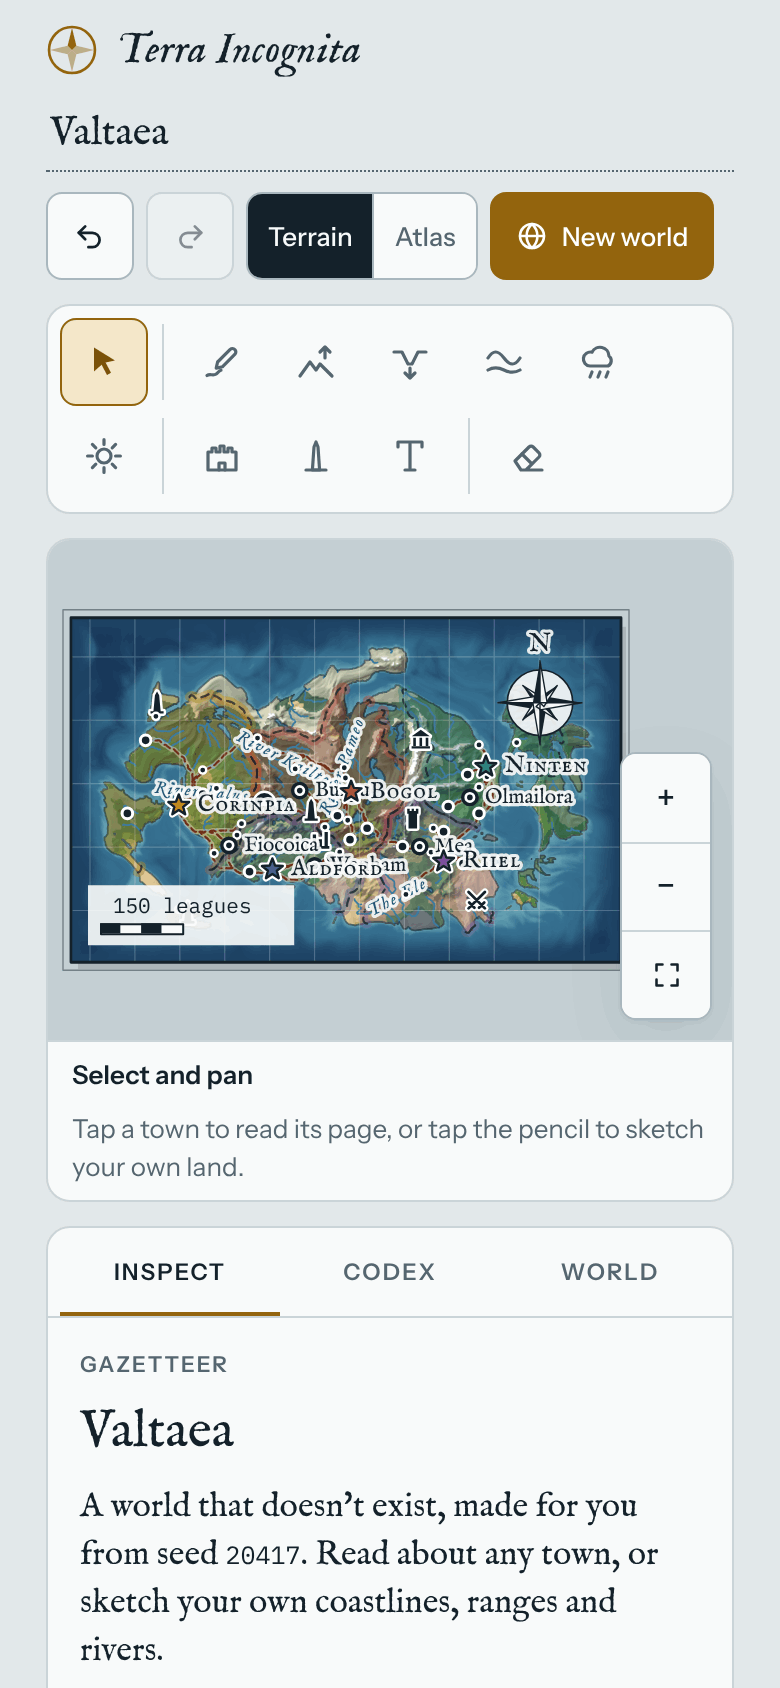
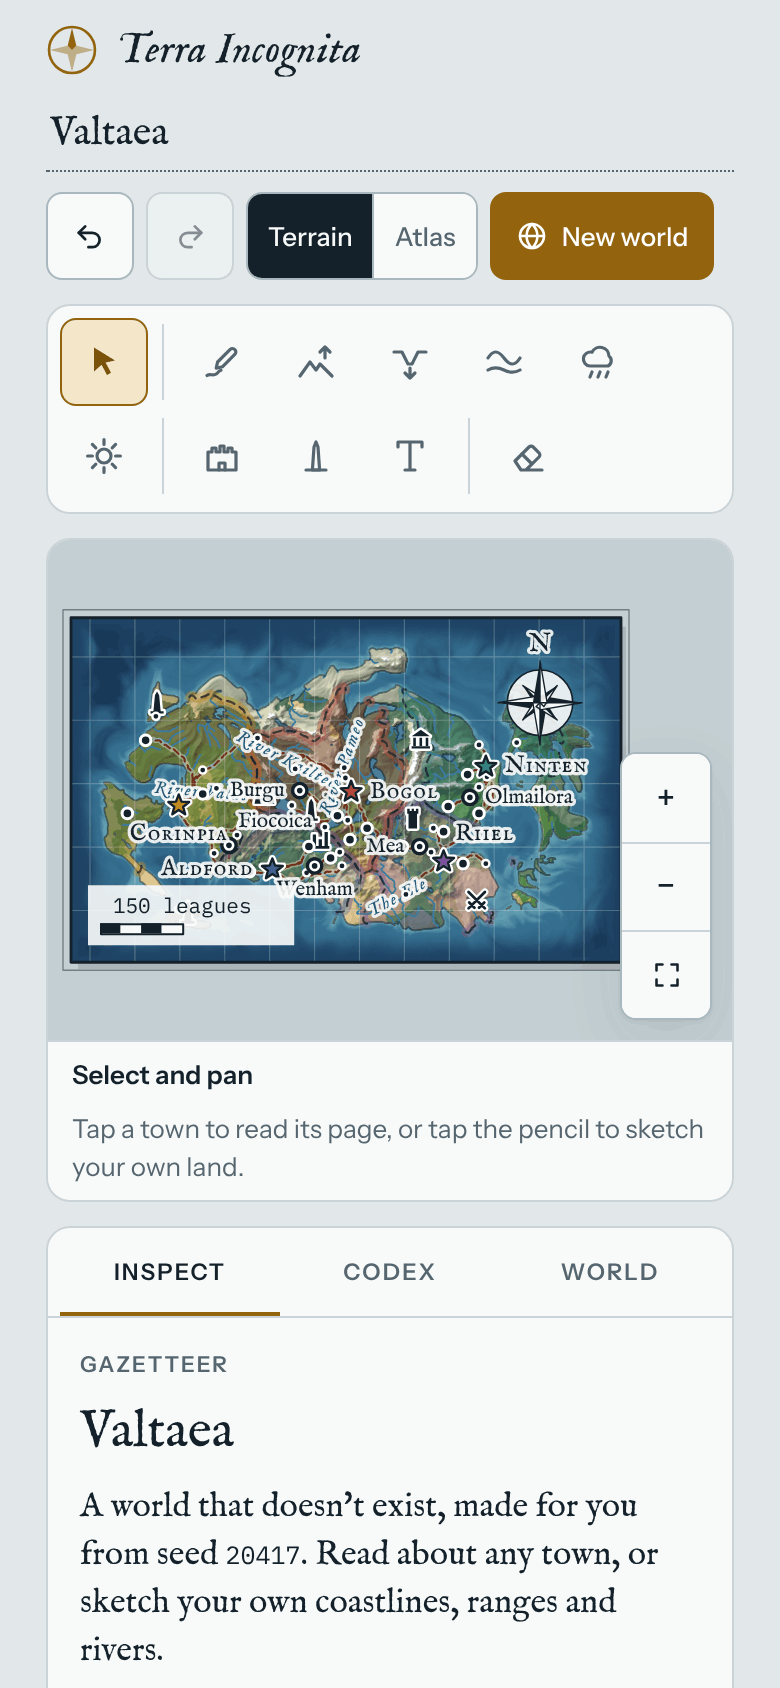
Give every place name a clear spot, and leave off the ones with none
Every name went to the right of its symbol with no check, so on a phone Bogol was cut at the map's edge, Lonlie and Mea
ran together, and on the saved image Sion printed into a capital's star. Names are now placed before any is drawn, in
order of rank, capitals first: right of the symbol, or left, above, below or at a corner, clear of the names and
symbols already there, the realms' names, sea and river names, the compass, the scale bar, the zoom buttons and the
map's edge. A town, village or landmark name with no clear spot is left off until you zoom in, as is a city's that
would print over another name; a capital's and the selected place's always show. terra.nameSpots says where each went.
The README pictures and the link picture are redrawn. Answers Mark's question on town names running off the map's east
edge and printing over each other and over symbols.

Claude-Session: https://claude.ai/code/session_01PQbLNV8yuVmPjyBMzr2F36

Changed region(s): [[0.1538, 0.4621, 0.5231, 0.5545], [0.5538, 0.4621, 0.6769, 0.5237]]

diff --git a/js/app.js b/js/app.js
@@ -1743,9 +1743,10 @@ function drawMap(c, k, vw, vh, v, opt) {
   c.save(); c.beginPath(); c.rect(X0, Y0, MW, MH); c.clip();
   if (atlas) drawGlyphs(c, v, vw, vh);
   if (L.realms) drawRealmNames(c, v, atlas);
-  if (L.rivers && L.labels && zr >= 0.95) {
+  const riverSize = L.rivers && L.labels && zr >= 0.95 ? 11 * clamp(Math.pow(zr, 0.3), 1, 1.5) * small : 0;
+  if (riverSize) {
     for (const r of D.riverLabels) {
-      const fs = 11 * clamp(Math.pow(zr, 0.3), 1, 1.5) * small;
+      const fs = riverSize;
       c.save(); c.translate(ox + r.x * s, oy + r.y * s); c.rotate(r.ang);
       c.font = `italic ${fs}px ${F_DISPLAY}`; c.textAlign = 'center'; c.textBaseline = 'middle'; c.letterSpacing = `${(fs * 0.12).toFixed(1)}px`;
       haloText(c, r.name, 0, 0, atlas ? '#3f6570' : '#1e5877', HALO, 3);
@@ -1754,7 +1755,10 @@ function drawMap(c, k, vw, vh, v, opt) {
     c.letterSpacing = '0px';
   }
   if (L.labels) drawUserLabels(c, v, atlas, HALO, opt);
-  drawPlaces(c, v, vw, vh, atlas, INK, HALO, opt, small);
+  const CX = Math.min(vw - 46, X0 + MW - 40), CY = Math.max(46, Y0 + 42), CR = 21;
+  const avoid = [[sb.X - 6, sb.top, sb.right, sb.bottom], [CX - CR, CY - CR - 15, CX + CR, CY + CR]];
+  if (!opt.export && v.zoomBox) avoid.push(v.zoomBox);
+  drawPlaces(c, v, vw, vh, atlas, INK, HALO, { ...opt, riverSize, avoid }, small);
   if (!opt.export && ui.tool === 'erase') drawSources(c, v);
   if (!opt.export) drawSelection(c, v, atlas);
   if (!opt.export && sketchDraft) drawSketch(c, v);
@@ -1768,7 +1772,7 @@ function drawMap(c, k, vw, vh, v, opt) {
 
   if (!opt.export) drawCursor(c, v);
   if (!opt.export && mapKeys && document.activeElement === canvas) drawMiddle(c, vw, vh);
-  drawCompass(c, Math.min(vw - 46, X0 + MW - 40), Math.max(46, Y0 + 42), 21, INK, HALO);
+  drawCompass(c, CX, CY, CR, INK, HALO);
   drawScale(c, sb, INK, HALO);
 }
 // On a small map, trees, reeds and dunes would sit closer than they are wide and run into a solid mat (on a phone's
@@ -1848,13 +1852,73 @@ function drawUserLabels(c, v, atlas) {
   c.letterSpacing = '0px';
 }
 const P_ORDER = { landmark: 0, village: 1, town: 2, city: 3, capital: 4 };
-// The selected place's name as drawPlaces last drew it, so drawSelection can draw it again over its ring.
+// Text widths by font, spacing and text, since names are measured on every frame to place them.
+const textWidths = new Map();
+function textW(c, text) {
+  const k = c.font + '|' + c.letterSpacing + '|' + text; let w = textWidths.get(k);
+  if (w === undefined) { if (textWidths.size > 5000) textWidths.clear(); w = c.measureText(text).width; textWidths.set(k, w); }
+  return w;
+}
+// Boxes a place's name keeps clear of, as { x, y, hw, hh, a }: a centre, half its width and height, and how far it is
+// turned (radians). overlap gives how much of a name's box [left, top, right, bottom] one covers, 0 when they miss.
+const keepClear = (l, t, r, b, a = 0) => ({ x: (l + r) / 2, y: (t + b) / 2, hw: (r - l) / 2, hh: (b - t) / 2, a });
+function overlap(bx, o) {
+  const cx = (bx[0] + bx[2]) / 2, cy = (bx[1] + bx[3]) / 2, hw = (bx[2] - bx[0]) / 2, hh = (bx[3] - bx[1]) / 2;
+  if (o.a) {
+    // A turned box: the two are apart if a gap shows along either box's sides (the separating axis test).
+    const ca = Math.cos(o.a), sa = Math.sin(o.a), dx = o.x - cx, dy = o.y - cy;
+    const ex = Math.abs(ca) * o.hw + Math.abs(sa) * o.hh, ey = Math.abs(sa) * o.hw + Math.abs(ca) * o.hh;
+    if (Math.abs(dx) >= hw + ex || Math.abs(dy) >= hh + ey) return 0;
+    if (Math.abs(dx * ca + dy * sa) >= o.hw + Math.abs(ca) * hw + Math.abs(sa) * hh) return 0;
+    if (Math.abs(-dx * sa + dy * ca) >= o.hh + Math.abs(sa) * hw + Math.abs(ca) * hh) return 0;
+    return (Math.min(cx + hw, o.x + ex) - Math.max(cx - hw, o.x - ex)) * (Math.min(cy + hh, o.y + ey) - Math.max(cy - hh, o.y - ey));
+  }
+  const w = Math.min(cx + hw, o.x + o.hw) - Math.max(cx - hw, o.x - o.hw), h = Math.min(cy + hh, o.y + o.hh) - Math.max(cy - hh, o.y - o.hh);
+  return w > 0 && h > 0 ? w * h : 0;
+}
+// What the place names keep clear of: the realms' names (both lines), the map's labels and the river names, as drawn.
+// Zoomed in four times past the whole map, where the realms' names have faded to a shadow, names may cross them.
+function nameObstacles(c, v, atlas, opt) {
+  const s = v.s, L = ui.layers, out = [];
+  if (L.realms && s / v.s0 < 4) for (const r of D.realms) {
+    const sz = realmNameSize(r, s); if (sz < 8) continue;
+    const X = v.ox + r.lx * s, Y = v.oy + r.ly * s, ts = Math.max(10, sz * 0.42);
+    c.font = `italic ${ts}px ${F_DISPLAY}`; c.letterSpacing = '1px'; const tw = textW(c, `The ${r.title} of`);
+    c.font = `${sz}px ${F_SC}`; c.letterSpacing = `${(sz * 0.26).toFixed(1)}px`; const nw = textW(c, r.name);
+    out.push(keepClear(X - tw / 2, Y - sz * 0.78 - ts * 0.55, X + tw / 2, Y - sz * 0.78 + ts * 0.55), keepClear(X - nw / 2, Y - sz * 0.55, X + nw / 2, Y + sz * 0.5));
+  }
+  if (L.labels) for (const l of world.labels) {
+    const fs = labelSize(l, v); if (fs < 6) continue;
+    const st = labelStyle(l, atlas); c.font = `${st.font} ${fs}px ${st.face}`; c.letterSpacing = `${(fs * st.sp).toFixed(1)}px`;
+    const w = textW(c, l.text), X = v.ox + l.x * s, Y = v.oy + l.y * s;
+    out.push(keepClear(X - w / 2, Y - fs * 0.55, X + w / 2, Y + fs * 0.55, (l.angle || 0) * Math.PI / 180));
+  }
+  if (L.rivers && L.labels && opt.riverSize) for (const r of D.riverLabels) {
+    const fs = opt.riverSize; c.font = `italic ${fs}px ${F_DISPLAY}`; c.letterSpacing = `${(fs * 0.12).toFixed(1)}px`;
+    const w = textW(c, r.name), X = v.ox + r.x * s, Y = v.oy + r.y * s;
+    out.push(keepClear(X - w / 2, Y - fs * 0.5, X + w / 2, Y + fs * 0.5, r.ang));
+  }
+  c.letterSpacing = '0px';
+  return out;
+}
+// The selected place's name as drawPlaces last drew it, so drawSelection can draw it again over its ring; and every
+// name it placed, on the screen and on the last saved image, for terra.names.
 let selName = null;
+const placedNames = { screen: [], image: [], screenMarks: [], imageMarks: [] };
+// Each place's symbol, then its name. Names are given their spots before any is drawn, in order of rank (capitals
+// first, then the selected place, then cities, towns, landmarks and villages, the more people first): to the right
+// of the symbol, or else to the left, above, below or at a corner, wherever the name is clear of the names and symbols
+// already there, the realms' names, the map's labels and river names, the compass and scale bar (opt.avoid) and the
+// map's edge. A town's, village's or landmark's name with no clear spot is left off until the map is zoomed in far
+// enough to give it one, and so is a city's that would print over another name; a capital's, and the selected
+// place's, always shows, in the spot where it covers least.
 function drawPlaces(c, v, vw, vh, atlas, INK, HALO, opt, small = 1) {
   const s = v.s, zr = s / v.s0, sc = clamp(Math.pow(zr, 0.22), 1, 1.35) * small;
   selName = null;
+  const selId = ui.selected && ui.selected.type === 'place' ? ui.selected.id : null;
   const list = world.places.slice().sort((a, b) => P_ORDER[a.kind] - P_ORDER[b.kind]);
   const iconHalo = atlas ? '#f1e7cb' : '#ffffff';
+  const marks = [];
   for (const p of list) {
     const X = v.ox + p.x * s, Y = v.oy + p.y * s;
     if (X < -60 || Y < -30 || X > vw + 200 || Y > vh + 30) continue;
@@ -1878,17 +1942,61 @@ function drawPlaces(c, v, vw, vh, atlas, INK, HALO, opt, small = 1) {
       else { c.lineWidth = 1.7; c.strokeStyle = INK; c.stroke(lm.p); }
       c.restore(); rr = 6 * sc;
     }
-    if (!ui.layers.names) continue;
-    const show = opt.allNames || p.kind === 'capital' || p.kind === 'city' || (p.kind === 'town' && zr >= 1.2) || (p.kind === 'village' && zr >= 1.9) || (p.kind === 'landmark' && zr >= 1.5) || (ui.selected && ui.selected.id === p.id);
-    if (!show) continue;
-    const base = { capital: 15, city: 13.5, town: 12.5, village: 11.5, landmark: 11.5 }[p.kind] * sc;
-    c.font = p.kind === 'capital' ? `${base}px ${F_SC}` : (p.kind === 'village' || p.kind === 'landmark') ? `italic ${base}px ${F_DISPLAY}` : `${base}px ${F_DISPLAY}`;
-    c.letterSpacing = p.kind === 'capital' ? '0.6px' : '0px';
-    c.textAlign = 'left'; c.textBaseline = 'middle';
-    haloText(c, p.name, X + rr + 4, Y + 0.5, INK, HALO, 3.2);
-    if (ui.selected && ui.selected.type === 'place' && ui.selected.id === p.id) selName = { text: p.name, x: X + rr + 4, y: Y + 0.5, font: c.font, ls: c.letterSpacing, INK, HALO };
+    marks.push({ p, X, Y, rr });
   }
-  c.letterSpacing = '0px';
+  const placed = [];
+  if (ui.layers.names) {
+    const clear = nameObstacles(c, v, atlas, opt).concat((opt.avoid || []).map(b => keepClear(...b)));
+    for (const m of marks) clear.push(keepClear(m.X - m.rr - 1, m.Y - m.rr - 1, m.X + m.rr + 1, m.Y + m.rr + 1));
+    const rank = m => m.p.kind === 'capital' ? 6 : m.p.id === selId ? 5 : P_ORDER[m.p.kind];
+    const order = marks.filter(({ p }) => opt.allNames || p.kind === 'capital' || p.kind === 'city' || (p.kind === 'town' && zr >= 1.2) || (p.kind === 'village' && zr >= 1.9) || (p.kind === 'landmark' && zr >= 1.5) || p.id === selId)
+      .sort((a, b) => rank(b) - rank(a) || (b.p.pop || 0) - (a.p.pop || 0));
+    // The map's edge, or the screen's where the map runs past it.
+    const ex0 = Math.max(v.ox, 0) + 2, ey0 = Math.max(v.oy, 0) + 2, ex1 = Math.min(v.ox + W * s, vw) - 2, ey1 = Math.min(v.oy + H * s, vh) - 2;
+    for (const m of order) {
+      const { p, X, Y, rr } = m;
+      const base = { capital: 15, city: 13.5, town: 12.5, village: 11.5, landmark: 11.5 }[p.kind] * sc;
+      const font = p.kind === 'capital' ? `${base}px ${F_SC}` : (p.kind === 'village' || p.kind === 'landmark') ? `italic ${base}px ${F_DISPLAY}` : `${base}px ${F_DISPLAY}`;
+      const ls = p.kind === 'capital' ? '0.6px' : '0px';
+      c.font = font; c.letterSpacing = ls;
+      const w = textW(c, p.name), hh = base * 0.5 + 1.5, gap = rr + 4;
+      const spots = [
+        { side: 'right', x: X + gap, y: Y + 0.5, align: 'left', box: [X + gap - 1.5, Y - hh, X + gap + w + 1.5, Y + hh] },
+        { side: 'left', x: X - gap, y: Y + 0.5, align: 'right', box: [X - gap - w - 1.5, Y - hh, X - gap + 1.5, Y + hh] },
+        { side: 'above', x: X, y: Y - rr - 1 - hh, align: 'center', box: [X - w / 2 - 1.5, Y - rr - 1 - 2 * hh, X + w / 2 + 1.5, Y - rr - 1] },
+        { side: 'below', x: X, y: Y + rr + 2 + hh, align: 'center', box: [X - w / 2 - 1.5, Y + rr + 2, X + w / 2 + 1.5, Y + rr + 2 + 2 * hh] },
+      ];
+      // Then the corners: above or below, starting beside the symbol.
+      const d = rr * 0.7 + 2;
+      for (const [side, dx, dy] of [['above right', 1, -1], ['below right', 1, 1], ['above left', -1, -1], ['below left', -1, 1]]) {
+        const y = Y + dy * (d + hh), x0 = dx > 0 ? X + d : X - d - w;
+        spots.push({ side, x: dx > 0 ? X + d : X - d, y, align: dx > 0 ? 'left' : 'right', box: [x0 - 1.5, y - hh, x0 + w + 1.5, y + hh] });
+      }
+      // A spot's cost: how much it covers, where covering another place's name counts a thousand times over.
+      let best = null, bestCost = Infinity;
+      for (const sp of spots) {
+        const b = sp.box, out = Math.max(0, ex0 - b[0]) + Math.max(0, b[2] - ex1) + Math.max(0, ey0 - b[1]) + Math.max(0, b[3] - ey1);
+        let cost = out * (b[3] - b[1]) * 4;
+        for (const o of clear) { if (o.own === p.id) continue; cost += overlap(b, o) * (o.own !== undefined ? 1000 : 1); if (cost >= bestCost) break; }
+        if (cost < bestCost) { bestCost = cost; best = sp; }
+        if (cost === 0) break;
+      }
+      const must = p.kind === 'capital' || p.id === selId;
+      if (!must && bestCost > 0 && (p.kind !== 'city' || bestCost >= 1000)) continue;
+      clear.push(Object.assign(keepClear(...best.box), { own: p.id }));
+      placed.push({ p, font, ls, ...best });
+    }
+    // Drawn lowest rank first, so where a name had to cover another, the higher-ranking one is on top.
+    for (let k = placed.length - 1; k >= 0; k--) {
+      const n = placed[k];
+      c.font = n.font; c.letterSpacing = n.ls; c.textAlign = n.align; c.textBaseline = 'middle';
+      haloText(c, n.p.name, n.x, n.y, INK, HALO, 3.2);
+      if (n.p.id === selId) selName = { text: n.p.name, x: n.x, y: n.y, align: n.align, font: n.font, ls: n.ls, INK, HALO };
+    }
+  }
+  placedNames[opt.export ? 'image' : 'screen'] = placed.map(n => ({ id: n.p.id, name: n.p.name, kind: n.p.kind, side: n.side, box: n.box.slice() }));
+  placedNames[opt.export ? 'imageMarks' : 'screenMarks'] = marks.map(m => ({ id: m.p.id, kind: m.p.kind, box: [m.X - m.rr, m.Y - m.rr, m.X + m.rr, m.Y + m.rr] }));
+  c.letterSpacing = '0px'; c.textAlign = 'left';
 }
 function findSel(sel) {
   if (!sel) return null;
@@ -1928,9 +2036,9 @@ function drawSelection(c, v, atlas) {
     // letters rather than through them. Only there: the rest of the name keeps its place under the symbols beside it.
     const n = selName;
     if (n) {
-      c.save(); c.beginPath(); c.rect(X, Y - 20, 16, 40); c.clip();
-      c.font = n.font; c.letterSpacing = n.ls; c.textAlign = 'left'; c.textBaseline = 'middle'; haloText(c, n.text, n.x, n.y, n.INK, n.HALO, 3.2);
-      c.restore(); c.letterSpacing = '0px';
+      c.save(); c.beginPath(); c.rect(X - 16, Y - 16, 32, 32); c.clip();
+      c.font = n.font; c.letterSpacing = n.ls; c.textAlign = n.align; c.textBaseline = 'middle'; haloText(c, n.text, n.x, n.y, n.INK, n.HALO, 3.2);
+      c.restore(); c.letterSpacing = '0px'; c.textAlign = 'left';
     }
   } else if (sel.type === 'label') {
     const fs = labelSize(o, v), st = labelStyle(o, atlas);
@@ -2034,6 +2142,8 @@ function resize() {
   const first = !view.cw, wasFit = Math.abs(view.s - view.s0) < 1e-6;
   const cx = view.cw ? (view.cw / 2 - view.ox) / view.s : W / 2, cy = view.ch ? (view.ch / 2 - view.oy) / view.s : H / 2;
   view.cw = cw; view.ch = ch; view.dpr = Math.min(2, window.devicePixelRatio || 1);
+  // The zoom buttons sit over the map's bottom-right corner, so place names keep out from under them.
+  const z = $('.zoom').getBoundingClientRect(); view.zoomBox = z.width ? [z.left - r.left - 3, z.top - r.top - 3, z.right - r.left + 3, z.bottom - r.top + 3] : null;
   canvas.width = Math.round(cw * view.dpr); canvas.height = Math.round(ch * view.dpr);
   if (first || wasFit) fitView(); else { computeS0(); view.ox = cw / 2 - cx * view.s; view.oy = ch / 2 - cy * view.s; clampView(); }
   draw();
@@ -3918,6 +4028,9 @@ window.terra = {
   // The brush's ring as last drawn, in CSS pixels on the map, or null when none shows.
   ring: () => ringShown && { ...ringShown },
   mapImage: (S = 2, allNames = true) => renderMapImage(S, allNames).toDataURL('image/png'),
+  // The place names the map last drew (where 'screen') or the last map image drew ('image'): each name, its place's id
+  // and kind, which side of its symbol it went and its box [left, top, right, bottom] in pixels; and each symbol's box.
+  nameSpots: (where = 'screen') => ({ names: placedNames[where].map(n => ({ ...n, box: n.box.slice() })), marks: placedNames[where + 'Marks'].map(m => ({ ...m, box: m.box.slice() })) }),
   // What lies at a map cell: its height against sea level (below zero in the sea), whether it holds a lake or a river,
   // its rain (m, 0 to 1, and rain, in mm a year), its kind of land, its height in metres (a lake's surface on a lake) and
   // its mean temperature.

diff --git a/sw.js b/sw.js
@@ -9,7 +9,7 @@
 // fingerprint of every file in SHELL: change any of them and test/e2e.mjs fails until FILES is changed to match (it
 // says what to), which changes this file, so every copy is made whole again at once.
 const CACHE = 'terra-incognita-v3'; // bump the number when the file list changes
-const FILES = 'fae6e0b1'; // test/e2e.mjs checks this
+const FILES = 'df0d59be'; // test/e2e.mjs checks this
 const SHELL = [
   './', 'index.html', 'css/app.css', 'js/app.js', 'js/edge-guard.js', 'manifest.webmanifest', 'icon.svg',
   'icon-180.png', 'icon-192.png', 'icon-512.png', 'icon-512-maskable.png',
